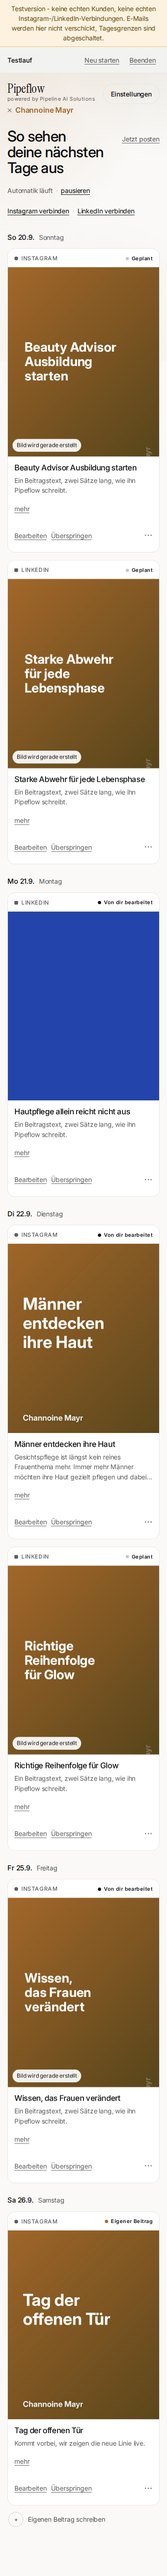
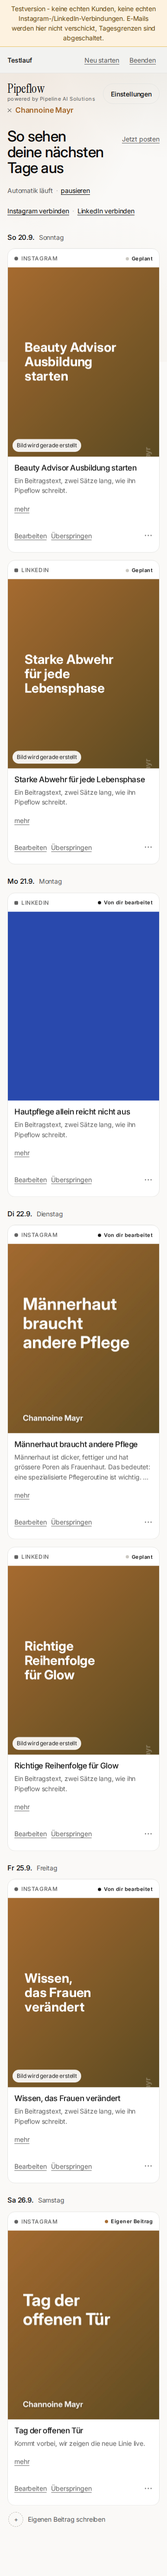
LinkedIn: mit Bild oder nur Text mit Hashtags
Eine Zeile in den Einstellungen, zwei Moeglichkeiten, Standard 'bild' - ein
bestehender Kunde merkt nichts. Bis dahin galt fuer Panel-Kunden ausnahmslos
"immer mit Bild" (Bugreport 13.09.), das war eine Entscheidung fuer alle statt
einer Wahl des Kunden.

Die Einstellung entscheidet, nicht der Aufrufer: publish_linkedin_image_post
veroeffentlicht bei 'text' ohne Bild, auch wenn die Routine eines mitschickt;
publish_linkedin_post ist fuer diese Kunden erlaubt; die Bildpflicht
(assertLinkedInHasImage) kennt die Ausnahme. Damit ist die Markenfrage bei
LinkedIn in diesem Fall gegenstandslos - es geht gar kein Bild mit -, und bei
'bild' greift dieselbe Markenpruefung wie bei Instagram.

Geplant wird entsprechend: fuer LinkedIn entsteht im Textmodus gar kein Bild
(spart den Aufruf), Farbwechsel und Bild-Nachtrag lassen diese Zeilen in Ruhe.
Bestehende Beitraege werden NICHT neu erzeugt und nicht angefasst - die
Einstellung wirkt beim Anzeigen und beim Veroeffentlichen, Kundenarbeit bleibt
damit unberuehrt und der Wechsel ist kostenlos umkehrbar.

Nachweis: test:linkedin-text - Server (Einstellung, Bildpflicht, Markenbild),
ein echter Planungslauf ohne ein einziges Bild, und die Oberflaeche bei 360 und
1440 (Zeile, zwei Moeglichkeiten, Speichern, LinkedIn-Karte ohne Bild,
Instagram-Karte unveraendert).

diff --git a/public/panel/start/start.js b/public/panel/start/start.js
@@ -686,12 +686,19 @@
     if (p.origin === "kunde" && !p.pillarTitle && p.status !== "rejected" && p.status !== "published") return ["eigen", "Eigener Beitrag"];
     return ZUSTAND[p.status] || ["geplant", p.status];
   }
+  /** Geht bei diesem Beitrag ueberhaupt ein Bild mit? Bei LinkedIn haengt das an der
+   *  Einstellung "mit Bild / nur Text mit Hashtags" (20.09.2026). */
+  function mitBild(p) {
+    return !(p.channel === "linkedin" && S.customer?.linkedinImageMode === "text");
+  }
   function postHtml(p, opts = {}) {
     const meta = KANAL[p.channel] || KANAL.ig_feed;
     const c = S.customer;
     const wm = (c && (c.watermarkText || c.company)) || "";
     const [zk, zt] = zustandVon(p);
-    const medien = p.imageUrl
+    const medien = !mitBild(p)
+      ? ""
+      : p.imageUrl
       ? `<img src="${esc(p.imageUrl)}" alt="Beitragsbild: ${esc(p.headline || "")}" loading="lazy">`
       : `<div class="kachel" data-kachel style="background:${esc(kachelHintergrund())}"><span class="kachel-h" style="${kachelSchrift()}">${esc(p.headline || "")}</span><span class="kachel-wm" style="${kachelSchrift()}">${esc(wm)}</span></div><span class="kachel-notiz">${c?.emailVerified || bilderKostenlos() ? "Bild wird gerade erstellt" : "Bild folgt nach der Bestätigung"}</span>`;
     const aenderbar = ["planned", "edited", "approved"].includes(p.status);
@@ -705,7 +712,7 @@
     }
     return `<article class="post${p.status === "rejected" ? " ist-uebersprungen" : ""}" data-id="${esc(p.id)}">
       <div class="post-meta"><span class="chan ${esc(p.channel)}">${esc(meta.label)}</span><span class="zust ${zk}"><i></i>${zt}</span></div>
-      <div class="media ${meta.format}">${medien}</div>
+      ${medien ? `<div class="media ${meta.format}">${medien}</div>` : ""}
       <div class="post-body"><h3 class="post-h">${esc(p.headline || "")}</h3>${p.caption ? `<p class="post-c">${esc(p.caption)}</p><button type="button" class="link post-more" data-more>mehr</button>` : ""}</div>
       ${aktionen ? `<div class="post-actions">${aktionen}</div>` : ""}
     </article>`;
@@ -859,6 +866,11 @@
          ${stufe.weekdayMatrix ? "" : `<span class="small muted">Einzelne Wochentage je Kanal gibt es in der nächsten Stufe.</span>`}`)}
       ${planZeile("farbe", "Farbe", `<span class="punkt" style="background:${esc(kachelHintergrund(c))}"></span>${esc((c.accentColor || STANDARD_AKZENT).toUpperCase())}${c.gradientEnabled && c.gradientColor2 ? ` → ${esc(c.gradientColor2.toUpperCase())}` : ""}${S.status?.summary?.colors?.gradientEnabled ? `<br><span class="muted">von deiner Website übernommen</span>` : ""}`,
         pickerHtml(c))}
+      ${c.linkedinEnabled ? planZeile("linkedinbild", "LinkedIn-Beiträge", `${c.linkedinImageMode === "text" ? "Nur Text mit Hashtags" : "Mit Bild"}`,
+        `<div class="wahl">
+           <label><input type="radio" name="linkedinImageMode" value="bild" ${c.linkedinImageMode === "text" ? "" : "checked"}><span>Mit Bild<small>wie bei Instagram, in deinen Markenfarben</small></span></label>
+           <label><input type="radio" name="linkedinImageMode" value="text" ${c.linkedinImageMode === "text" ? "checked" : ""}><span>Nur Text mit Hashtags<small>kein Bild, reiner Textbeitrag</small></span></label>
+         </div>`) : ""}
       ${planZeile("freigabe", "Freigabe", `${c.approvalMode ? "An" : "Aus"}<br><span class="muted">${c.approvalMode ? "Jeder Beitrag wartet auf dein OK, bevor er rausgeht." : "Beiträge gehen zur geplanten Zeit automatisch raus."}</span>`,
         `<label class="schalter"><input type="checkbox" name="approvalMode" ${c.approvalMode ? "checked" : ""}><span>Freigabe an - jeder Beitrag wartet auf dein OK</span></label>
          <span class="small muted">Aus heißt: Beiträge gehen zur geplanten Zeit automatisch raus. Du siehst sie trotzdem vorher in der Übersicht.</span>`)}
@@ -884,6 +896,7 @@
     const meta = KANAL[p.channel] || KANAL.ig_feed;
     const c = S.customer;
     const wm = (c && (c.watermarkText || c.company)) || "";
+    if (!mitBild(p)) return `<article class="post"><div class="post-meta"><span class="chan ${esc(p.channel)}">${esc(meta.label)}</span><time>${esc(kurzDatum(p.scheduledFor))}</time></div><div class="post-body"><h3 class="post-h">${esc(p.headline || "")}</h3><p class="small muted">Nur Text mit Hashtags</p></div></article>`;
     return `<article class="post"><div class="post-meta"><span class="chan ${esc(p.channel)}">${esc(meta.label)}</span><time>${esc(kurzDatum(p.scheduledFor))}</time></div>
       <div class="media ${meta.format}"><div class="kachel" data-kachel style="background:${esc(kachelHintergrund())}"><span class="kachel-h" style="${kachelSchrift()}">${esc(p.headline || "")}</span><span class="kachel-wm" style="${kachelSchrift()}">${esc(wm)}</span></div></div></article>`;
   }
@@ -1053,9 +1066,11 @@
         const meta = KANAL[a.channel] || KANAL.ig_feed;
         return `<article class="post is-open" data-approval="${esc(a.id)}">
           <div class="post-meta"><span class="chan ${esc(a.channel)}">${esc(meta.label)}</span><time>${esc(zeitpunkt(a.createdAt))}</time></div>
-          ${a.imageUrl
-            ? `<button type="button" class="media media-taste ${meta.format}" data-auf aria-expanded="true" aria-label="Beitrag ein- oder ausklappen"><img src="${esc(a.imageUrl)}" alt="Beitragsbild: ${esc(a.headline || "")}" loading="lazy"></button>`
-            : `<div class="media ${meta.format}"><div class="skeleton">Kein Bild</div></div>`}
+          ${!mitBild(a)
+            ? ""
+            : a.imageUrl
+              ? `<button type="button" class="media media-taste ${meta.format}" data-auf aria-expanded="true" aria-label="Beitrag ein- oder ausklappen"><img src="${esc(a.imageUrl)}" alt="Beitragsbild: ${esc(a.headline || "")}" loading="lazy"></button>`
+              : `<div class="media ${meta.format}"><div class="skeleton">Kein Bild</div></div>`}
           <div class="post-body"><h3 class="post-h">${esc(a.headline || "")}</h3>${a.caption ? `<p class="post-c">${esc(a.caption)}</p><button type="button" class="link post-more" data-auf aria-expanded="true">weniger zeigen</button>` : ""}</div>
           <div class="post-actions"><button type="button" class="btn sm" data-freigeben="${esc(a.id)}">Freigeben</button><button type="button" class="link" data-ablehnen="${esc(a.id)}">Ablehnen</button></div>
         </article>`;
@@ -1435,6 +1450,7 @@
       if (patch.gradientEnabled && !patch.gradientColor2) { fehlerEl.textContent = "Bitte eine zweite Farbe wählen oder den Verlauf ausschalten."; return; }
     }
     if (id === "freigabe") { patch.approvalMode = form.approvalMode.checked; }
+    if (id === "linkedinbild") { patch.linkedinImageMode = $("input[name=linkedinImageMode]:checked", form)?.value === "text" ? "text" : "bild"; }
     const btn = $("button[type=submit]", form);
     beschaeftigt(btn, true, "Speichern …");
     try {

diff --git a/src/panel/router.ts b/src/panel/router.ts
@@ -258,6 +258,8 @@ interface BriefingInput {
   activeWeekdays: string; instagramWeekdays: string; linkedinWeekdays: string;
   pauseFrom: string; pauseUntil: string;
   approvalMode: boolean;
+  /** 'bild' (Standard) oder 'text' - nur fuer LinkedIn, siehe db.ts. */
+  linkedinImageMode: string;
   notifyOnPublish: boolean;
   notifyWeeklyReport: boolean;
   commentAutomationEnabled: boolean;
@@ -339,6 +341,7 @@ function parseBriefing(body: Record<string, unknown>): { data: BriefingInput; er
     pauseFrom: str(body.pauseFrom, 10),
     pauseUntil: str(body.pauseUntil, 10),
     approvalMode: bool(body.approvalMode, false),
+    linkedinImageMode: str(body.linkedinImageMode, 10) === "text" ? "text" : "bild",
     notifyOnPublish: bool(body.notifyOnPublish, false),
     notifyWeeklyReport: bool(body.notifyWeeklyReport, false),
     commentAutomationEnabled: bool(body.commentAutomationEnabled, false),
@@ -475,6 +478,7 @@ function publicState(c: CustomerRow) {
       activeWeekdays: c.active_weekdays, instagramWeekdays: c.instagram_weekdays, linkedinWeekdays: c.linkedin_weekdays,
       pauseFrom: c.pause_from, pauseUntil: c.pause_until,
       approvalMode: Boolean(c.approval_mode),
+      linkedinImageMode: c.linkedin_image_mode === "text" ? "text" : "bild",
       notifyOnPublish: Boolean(c.notify_on_publish),
       notifyWeeklyReport: Boolean(c.notify_weekly_report),
       commentAutomationEnabled: Boolean(c.comment_automation_enabled),
@@ -1165,7 +1169,7 @@ export function createPanelRouter(): Router {
       `INSERT INTO customers (id, company, contact_name, email, website, industry, about, tone, frequency, post_time,
          accent_color, watermark_text, avoid_topics, cta_preference, trial_ends_at,
          ig_feed_enabled, ig_story_enabled, linkedin_enabled, hashtag_pref, emojis_enabled, language, banned_words, required_elements, custom_hashtags,
-         active_weekdays, instagram_weekdays, linkedin_weekdays, pause_from, pause_until, approval_mode, notify_on_publish, notify_weekly_report,
+         active_weekdays, instagram_weekdays, linkedin_weekdays, pause_from, pause_until, approval_mode, linkedin_image_mode, notify_on_publish, notify_weekly_report,
          gradient_enabled, gradient_color2, gradient_direction, font_choice,
          comment_automation_enabled, comment_automation_mode,
          google_review_automation_enabled, google_review_mode, google_review_posts_enabled, google_review_post_min_stars,
@@ -1177,7 +1181,7 @@ export function createPanelRouter(): Router {
       data.tone, data.frequency, data.postTime,
       data.accentColor || null, data.watermarkText || null, data.avoidTopics || null, data.ctaPreference || null, trialEndsAt,
       data.igFeedEnabled ? 1 : 0, data.igStoryEnabled ? 1 : 0, data.linkedinEnabled ? 1 : 0, data.hashtagPreference, data.emojisEnabled ? 1 : 0, data.language, data.bannedWords || null, data.requiredElements || null, data.customHashtags || null,
-      data.activeWeekdays || null, data.instagramWeekdays || null, data.linkedinWeekdays || null, data.pauseFrom || null, data.pauseUntil || null, data.approvalMode ? 1 : 0, data.notifyOnPublish ? 1 : 0, data.notifyWeeklyReport ? 1 : 0,
+      data.activeWeekdays || null, data.instagramWeekdays || null, data.linkedinWeekdays || null, data.pauseFrom || null, data.pauseUntil || null, data.approvalMode ? 1 : 0, data.linkedinImageMode, data.notifyOnPublish ? 1 : 0, data.notifyWeeklyReport ? 1 : 0,
       data.gradientEnabled ? 1 : 0, data.gradientColor2 || null, data.gradientDirection, data.fontChoice,
       data.commentAutomationEnabled ? 1 : 0, data.commentAutomationMode,
       data.googleReviewAutomationEnabled ? 1 : 0, data.googleReviewMode, data.googleReviewPostsEnabled ? 1 : 0, data.googleReviewPostMinStars,
@@ -1246,7 +1250,7 @@ export function createPanelRouter(): Router {
       `UPDATE customers SET company=?, contact_name=?, email=?, website=?, industry=?, about=?, tone=?, frequency=?, post_time=?,
          accent_color=?, watermark_text=?, avoid_topics=?, cta_preference=?,
          ig_feed_enabled=?, ig_story_enabled=?, linkedin_enabled=?, hashtag_pref=?, emojis_enabled=?, language=?, banned_words=?, required_elements=?, custom_hashtags=?,
-         active_weekdays=?, instagram_weekdays=?, linkedin_weekdays=?, pause_from=?, pause_until=?, approval_mode=?, notify_on_publish=?, notify_weekly_report=?,
+         active_weekdays=?, instagram_weekdays=?, linkedin_weekdays=?, pause_from=?, pause_until=?, approval_mode=?, linkedin_image_mode=?, notify_on_publish=?, notify_weekly_report=?,
          comment_automation_enabled=?, comment_automation_mode=?,
          google_review_automation_enabled=?, google_review_mode=?, google_review_posts_enabled=?, google_review_post_min_stars=?,
          video_enabled=?, video_weekdays=?, video_post_time=?, video_length_seconds=?, video_zoom_direction=?, video_voice=?, video_voice_enabled=?,
@@ -1260,7 +1264,7 @@ export function createPanelRouter(): Router {
         data.tone, data.frequency, data.postTime,
         data.accentColor || null, data.watermarkText || null, data.avoidTopics || null, data.ctaPreference || null,
         data.igFeedEnabled ? 1 : 0, data.igStoryEnabled ? 1 : 0, data.linkedinEnabled ? 1 : 0, data.hashtagPreference, data.emojisEnabled ? 1 : 0, data.language, data.bannedWords || null, data.requiredElements || null, data.customHashtags || null,
-        data.activeWeekdays || null, data.instagramWeekdays || null, data.linkedinWeekdays || null, data.pauseFrom || null, data.pauseUntil || null, data.approvalMode ? 1 : 0, data.notifyOnPublish ? 1 : 0, data.notifyWeeklyReport ? 1 : 0,
+        data.activeWeekdays || null, data.instagramWeekdays || null, data.linkedinWeekdays || null, data.pauseFrom || null, data.pauseUntil || null, data.approvalMode ? 1 : 0, data.linkedinImageMode, data.notifyOnPublish ? 1 : 0, data.notifyWeeklyReport ? 1 : 0,
         data.commentAutomationEnabled ? 1 : 0, data.commentAutomationMode,
         data.googleReviewAutomationEnabled ? 1 : 0, data.googleReviewMode, data.googleReviewPostsEnabled ? 1 : 0, data.googleReviewPostMinStars,
         data.videoEnabled ? 1 : 0, data.videoWeekdays || null, data.videoPostTime || null, data.videoLengthSeconds, data.videoZoomDirection, data.videoVoice, data.videoVoiceEnabled ? 1 : 0,

diff --git a/src/panel/planning.ts b/src/panel/planning.ts
@@ -43,7 +43,7 @@ import {
 } from "./credentials.js";
 import { isPostingDayForChannel, nextViennaWeekly, planWindowEnd, viennaDateStr, viennaWeekday, type PostingChannel } from "./schedule.js";
 import { wochenfarbe } from "./brand-colors.js";
-import { darfNeuGeschriebenWerden } from "./credentials.js";
+import { darfNeuGeschriebenWerden, linkedinNurText } from "./credentials.js";
 import { sprachFehler } from "./sprache.js";
 import { headlineLayoutForFormat, HEADLINE_MAX_LINES } from "../watermark.js";
 import { getFontOption, DEFAULT_FONT_ID } from "../fonts.js";
@@ -454,7 +454,12 @@ export async function mitKundenmarke(
   headline: string | undefined,
   imageUrl: string | undefined,
 ): Promise<string | undefined> {
-  if (!customerId || !headline || !imageUrl) return imageUrl;
+  if (!customerId) return imageUrl;
+  // "Nur Text mit Hashtags": dann geht gar kein Bild mit - auch keines, das die Routine
+  // mitschickt. Damit ist die Markenfrage bei LinkedIn in diesem Fall gegenstandslos. Diese
+  // Pruefung steht VOR der Ueberschrift: ein LinkedIn-Beitrag hat oft gar keine.
+  if (channel === "linkedin" && linkedinNurText(customerId)) return undefined;
+  if (!headline || !imageUrl) return imageUrl;
   const branding = resolveImageBranding(customerId);
   if (!branding.gradient || !branding.accentColor) return imageUrl;
   const freigegeben = db
@@ -601,6 +606,9 @@ export async function planCustomerWeek(row: CustomerRow, opts: PlanWeekOptions =
     { channel: "linkedin", enabled: Boolean(row.linkedin_enabled) },
   ];
 
+  // Steht LinkedIn auf "nur Text mit Hashtags", entsteht fuer diesen Kanal von vornherein kein
+  // Bild - nicht eines, das spaeter weggelassen wird. Das spart den Aufruf und die Kosten.
+  const linkedinOhneBild = linkedinNurText(row.id);
   // Erst alle offenen Slots einsammeln (inkl. Saeulen-Zuweisung in Planreihenfolge - dieselbe
   // Rotation wie bisher, nur vorab statt unmittelbar vor jeder Generierung), dann abarbeiten.
   let skippedExisting = 0;
@@ -625,7 +633,9 @@ export async function planCustomerWeek(row: CustomerRow, opts: PlanWeekOptions =
       }
       const pillar = pickWeightedPillar(pillars, lastPillarTitle);
       if (pillar) lastPillarTitle = pillar.title;
-      const withImage = opts.imageBudget == null || slots.filter((s) => s.withImage).length < opts.imageBudget;
+      const withImage = channel === "linkedin" && linkedinOhneBild
+        ? false
+        : opts.imageBudget == null || slots.filter((s) => s.withImage).length < opts.imageBudget;
       slots.push({ channel, dateStr, pillar, withImage });
     }
   }
@@ -689,7 +699,8 @@ export async function planCustomerWeek(row: CustomerRow, opts: PlanWeekOptions =
 export async function recolorPlannedPosts(row: CustomerRow, opts: { concurrency?: number; onProgress?: (done: number, total: number) => void } = {}): Promise<BackfillResult> {
   const today = viennaDateStr();
   const to = planWindowEnd();
-  const rows = listPlannedPosts(row.id, today, to).filter((p) => p.headline && p.imageUrl && ["planned", "edited", "approved"].includes(p.status) && p.imageSource !== "kunde");
+  const ohneBild = linkedinNurText(row.id);
+  const rows = listPlannedPosts(row.id, today, to).filter((p) => p.headline && p.imageUrl && ["planned", "edited", "approved"].includes(p.status) && p.imageSource !== "kunde" && !(ohneBild && p.channel === "linkedin"));
   if (!rows.length) return { filled: 0, failed: 0 };
   const branding = resolveImageBranding(row.id);
   let filled = 0;
@@ -729,7 +740,9 @@ export interface BackfillResult {
 export async function backfillMissingImages(row: CustomerRow, opts: { concurrency?: number; onProgress?: (done: number, total: number) => void } = {}): Promise<BackfillResult> {
   const today = viennaDateStr();
   const to = planWindowEnd();
-  const rows = listPlannedPostsWithoutImage(row.id, today, to).filter((p) => p.headline);
+  // Kein Bild nachtragen, wo bewusst keines hingehoert (LinkedIn auf "nur Text").
+  const ohneBild = linkedinNurText(row.id);
+  const rows = listPlannedPostsWithoutImage(row.id, today, to).filter((p) => p.headline && !(ohneBild && p.channel === "linkedin"));
   if (!rows.length) return { filled: 0, failed: 0 };
   const branding = resolveImageBranding(row.id);
   let filled = 0;

diff --git a/src/index.ts b/src/index.ts
@@ -31,6 +31,7 @@ import {
   PROVIDER_FOR_CHANNEL,
   type PublishChannel,
   assertLinkedInHasImage,
+  linkedinNurText,
   assertNoBannedWords,
   assertRequiredElements,
   getCustomerOverview,
@@ -706,15 +707,16 @@ function createServer(): McpServer {
     },
     async ({ text, customer_id, pillar_title }) => {
       try {
-        if (customer_id) {
+        if (customer_id && !linkedinNurText(customer_id)) {
           // Bugreport 2026-09-13: panel customers got an inconsistent mix of image and plain-text
-          // LinkedIn posts. Decision: panel customers always get an image (see
-          // assertLinkedInHasImage) - this plain-text tool stays available ONLY for the operator's
-          // own account (no customer_id), which deliberately posts text-only some days per
-          // linkedin-styleguide.md. Panel customers must use publish_linkedin_image_post instead.
+          // LinkedIn posts. Seit 20.09.2026 entscheidet das nicht mehr die Routine, sondern der
+          // Kunde in seinen Einstellungen (linkedin_image_mode). Steht dort 'bild' - der Standard -,
+          // gilt die alte Regel unveraendert: immer mit Bild, dieses Werkzeug bleibt dem eigenen
+          // Account vorbehalten (der laut linkedin-styleguide.md bewusst auch Text-Tage hat).
           throw new Error(
             "Für Panel-Kunden (customer_id gesetzt) immer publish_linkedin_image_post verwenden, nie " +
-              "publish_linkedin_post - LinkedIn-Beiträge brauchen für Kunden immer ein Bild.",
+              "publish_linkedin_post - LinkedIn-Beiträge brauchen für Kunden immer ein Bild. " +
+              "Ausnahme: Kunden, die in ihren Einstellungen \"nur Text\" gewählt haben.",
           );
         }
         assertChannelEnabled(customer_id, "linkedin");
@@ -753,6 +755,20 @@ function createServer(): McpServer {
     },
     async ({ text, image_url, image_base64, alt_text, customer_id, pillar_title }) => {
       try {
+        // Hat der Kunde "nur Text mit Hashtags" gewaehlt, geht der Beitrag ohne Bild raus - auch
+        // wenn die Routine eines mitschickt. Die Einstellung des Kunden entscheidet, nicht der
+        // Aufrufer; sonst haenge die Wahl daran, welches Werkzeug die Routine gerade nimmt.
+        if (linkedinNurText(customer_id)) {
+          assertChannelEnabled(customer_id, "linkedin");
+          assertNoBannedWords(customer_id, text);
+          assertRequiredElements(customer_id, text);
+          const nurTextCreds = await resolveLinkedInCredentials(customer_id);
+          const nurText = await publishLinkedInPost({ text }, nurTextCreds);
+          if (customer_id) {
+            logPost(customer_id, "linkedin", { externalPostId: nurText.postId ?? undefined, caption: text, pillarTitle: pillar_title, channel: "linkedin" });
+          }
+          return textResult(nurText);
+        }
         const hasUrl = Boolean(image_url?.trim());
         const hasB64 = Boolean(image_base64?.trim());
         if (hasUrl === hasB64) {
@@ -933,7 +949,7 @@ function createServer(): McpServer {
         const checkTexts = channel === "ig_story" ? [headline] : [headline, caption];
         assertNoBannedWords(customer_id, ...checkTexts);
         assertRequiredElements(customer_id, ...checkTexts);
-        assertLinkedInHasImage(channel, image_url);
+        assertLinkedInHasImage(channel, image_url, customer_id);
         const provider = channel === "linkedin" ? "linkedin" : "instagram";
         // Marke erzwingen, BEVOR der Kunde es zu sehen bekommt (siehe mitKundenmarke).
         const markenBild = await mitKundenmarke(customer_id, channel, headline, image_url);

diff --git a/src/panel/credentials.ts b/src/panel/credentials.ts
@@ -942,8 +942,22 @@ export function assertRequiredElements(customerId: string | undefined, ...texts:
  * führt. Call this from every LinkedIn-bound save/publish path (save_pending_approval,
  * submitPlannedPostForApproval, publish_linkedin_post) before the actual save/network call.
  */
-export function assertLinkedInHasImage(channel: string, imageUrl: string | null | undefined): void {
+/**
+ * Veroeffentlicht dieser Kunde LinkedIn-Beitraege nur als Text mit Hashtags? (Einstellung vom
+ * 20.09.2026, Standard 'bild'.) Bewusst eine Abfrage an genau einer Stelle: sowohl die Planung
+ * (kein Bild erzeugen, spart Kosten) als auch das Veroeffentlichen (Text statt Bildbeitrag)
+ * haengen daran, und beide muessen dasselbe sehen.
+ */
+export function linkedinNurText(customerId?: string | null): boolean {
+  if (!customerId) return false;
+  const row = db.prepare("SELECT linkedin_image_mode FROM customers WHERE id = ?").get(customerId) as { linkedin_image_mode?: string } | undefined;
+  return row?.linkedin_image_mode === "text";
+}
+
+export function assertLinkedInHasImage(channel: string, imageUrl: string | null | undefined, customerId?: string | null): void {
   if (channel !== "linkedin") return;
+  // Steht die Einstellung auf "nur Text", ist ein fehlendes Bild kein Fehler, sondern der Wunsch.
+  if (linkedinNurText(customerId)) return;
   if (!imageUrl || !imageUrl.trim()) {
     throw new Error(
       "LinkedIn-Beiträge brauchen immer ein Bild (dieselbe Bildgenerierung wie für den Instagram-Feed - " +
@@ -1694,7 +1708,7 @@ export function submitPlannedPostForApproval(plannedPostId: string): PendingAppr
   const checkTexts = plan.channel === "ig_story" ? [plan.headline ?? undefined] : [plan.headline ?? undefined, plan.caption ?? undefined];
   assertNoBannedWords(plan.customerId, ...checkTexts);
   assertRequiredElements(plan.customerId, ...checkTexts);
-  assertLinkedInHasImage(plan.channel, plan.imageUrl);
+  assertLinkedInHasImage(plan.channel, plan.imageUrl, plan.customerId);
 
   const provider = plan.channel === "linkedin" ? "linkedin" : "instagram";
   const approval = savePendingApproval({

diff --git a/src/panel/db.ts b/src/panel/db.ts
@@ -447,6 +447,11 @@ migrateColumns("customers", [
   // /{comment-id}/replies, 'approval' legt sie stattdessen wie ein Beitrags-Entwurf zur Freigabe
   // ab - gleiches Grundprinzip wie approval_mode bei Beitraegen, aber ein eigener Schalter (ein
   // Kunde kann Beitraege automatisch, Kommentare aber nur mit Freigabe wollen, oder umgekehrt).
+  // 20.09.2026: LinkedIn mit Bild oder nur Text mit Hashtags. Bis dahin galt fuer Panel-Kunden
+  // ausnahmslos "immer mit Bild" (Bugreport 13.09., assertLinkedInHasImage) - das war eine
+  // Entscheidung fuer alle statt einer Wahl des Kunden. Standard bleibt 'bild', ein bestehender
+  // Kunde merkt also nichts. Instagram hat die Wahl bewusst nicht: dort geht ohne Bild nichts.
+  ["linkedin_image_mode", "TEXT NOT NULL DEFAULT 'bild'"],
   ["comment_automation_enabled", "INTEGER NOT NULL DEFAULT 0"],
   ["comment_automation_mode", "TEXT NOT NULL DEFAULT 'approval'"],
   // Panel v11: Erst-Rundgang genau einmal pro Kunde zeigen. Bewusst serverseitig und nicht im
@@ -756,6 +761,7 @@ export interface CustomerRow {
   pause_from: string | null;
   pause_until: string | null;
   approval_mode: number;
+  linkedin_image_mode: string;
   active_theme_id: string | null;
   logo_url: string | null;
   email_verified: number;

diff --git a/public/panel/start/index.html b/public/panel/start/index.html
@@ -26,7 +26,7 @@
 </script>
 <link rel="preload" href="../fonts/Inter-latin.woff2" as="font" type="font/woff2" crossorigin>
 <link rel="preload" href="../fonts/InstrumentSerif-normal-latin.woff2" as="font" type="font/woff2" crossorigin>
-<link rel="stylesheet" href="start.css?v=20260920b">
+<link rel="stylesheet" href="start.css?v=20260920c">
 <link rel="manifest" href="../manifest.webmanifest">
 </head>
 <body>
@@ -104,6 +104,6 @@
   </div>
 </div>
 
-<script src="start.js?v=20260920b"></script>
+<script src="start.js?v=20260920c"></script>
 </body>
 </html>
